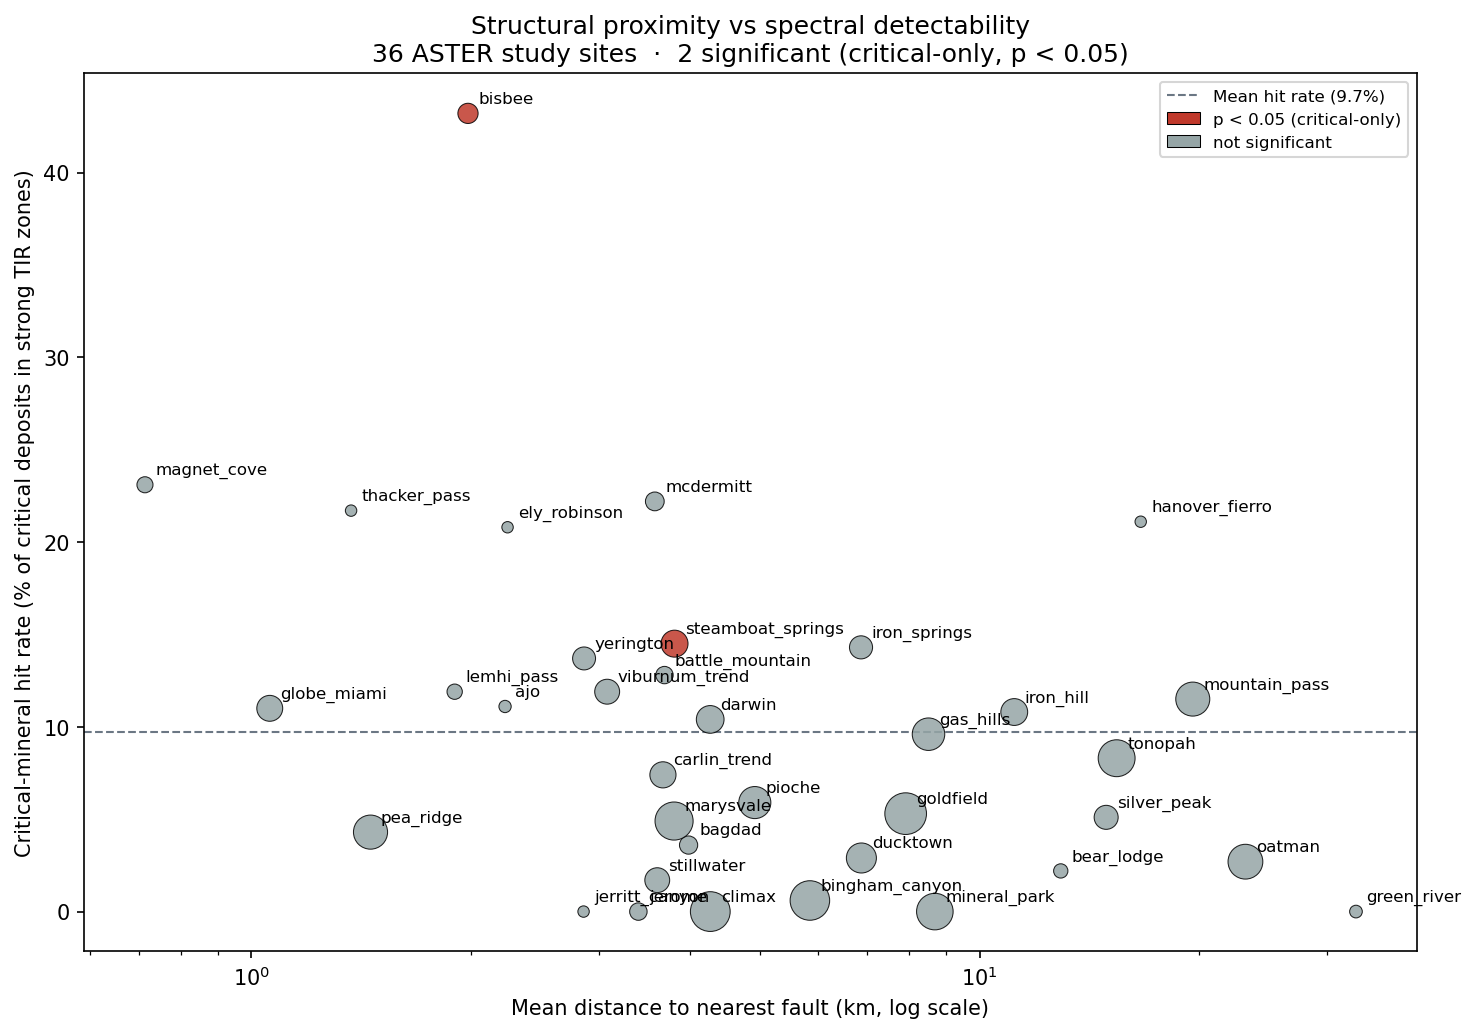
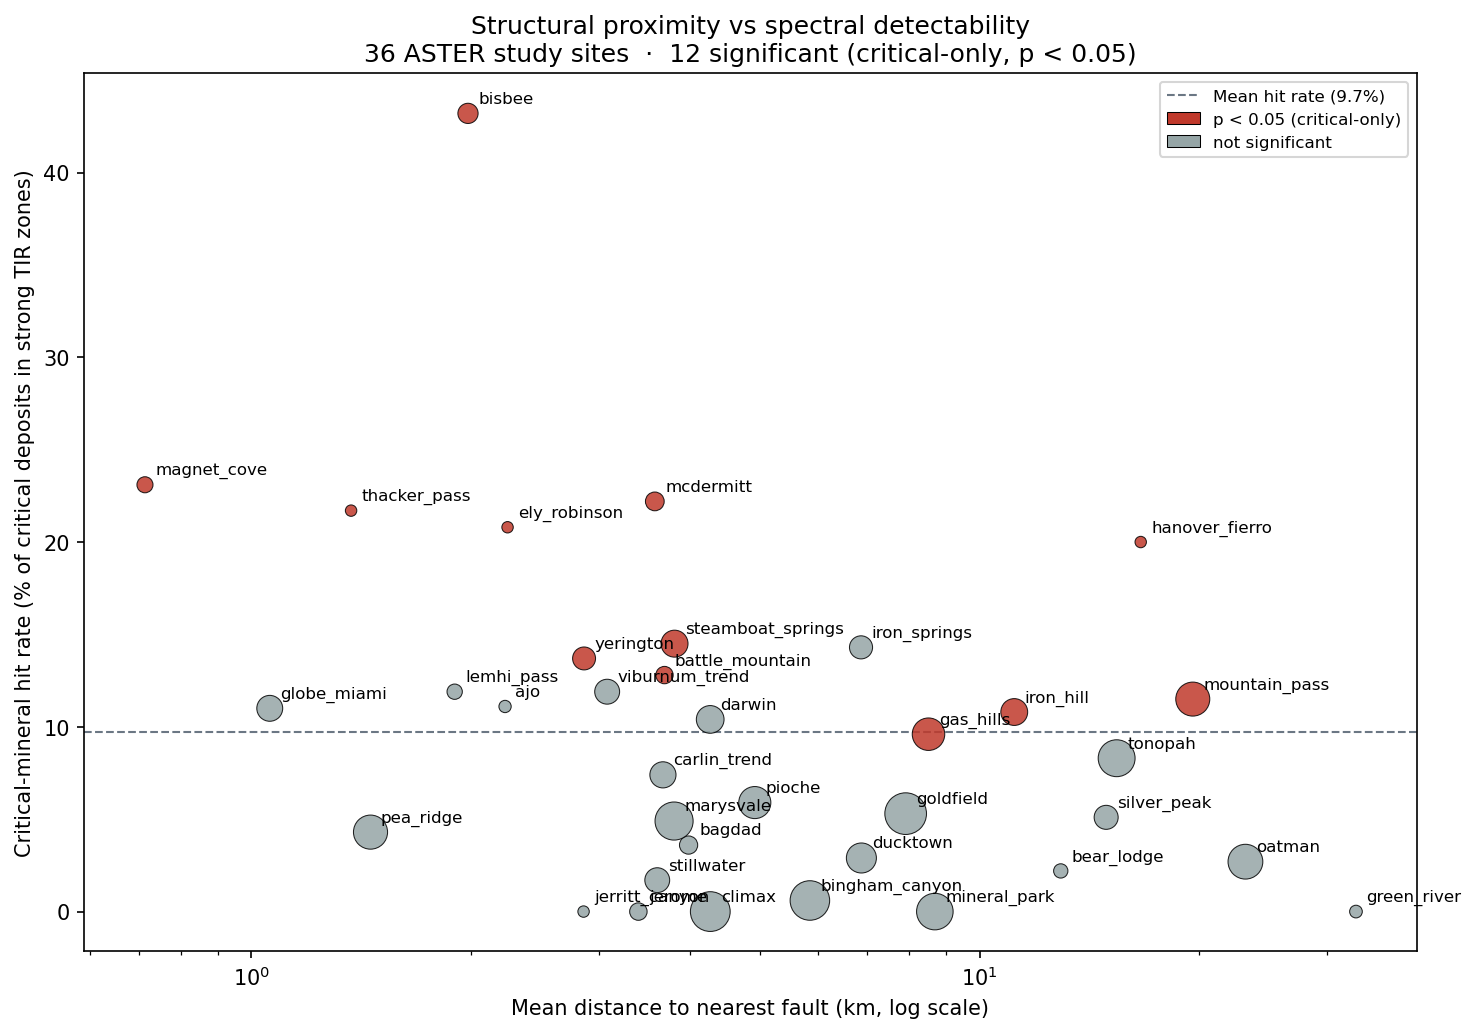
results: embed figures in results.md; fix figure 06 significance (12 critical-only)
Regenerate significance_critical_only.csv from current national_summary.csv
using critical-mineral-only binomial test (null = 9.7%), giving 12/37 significant
vs 15/37 on the all-deposit test. Figure 06 now correctly labels 12 sites red.

Embed figures inline in results.md at relevant sections:
- Fig 05 (national hit rates bar) after significance table
- Fig 06 (structure scatter) in structure proximity section
- Fig 07 (all vs critical paired dots) in non-critical inflation section
- Bisbee site fig 03 as strongest-positive example
- Climax site fig 03 as anti-correlation example
- Ducktown site fig 03 as vegetation-suppression contrast

diff --git a/docs/results.md b/docs/results.md
@@ -6,9 +6,9 @@ ASTER TIR alteration mapping across 37 US critical mineral sites. Full figures: 
 
 ## Site-level hit rates
 
-**15 of 37 sites** show hit rates significantly above chance (binomial test, p < 0.05; null rate = 8.2% pooled across all sites):
+**15 of 37 sites** show hit rates significantly above chance on the all-deposit binomial test (null = 8.2% pooled). **12 of 37** remain significant when restricted to critical-mineral deposits only (figure 06; null = 9.7% critical-only pooled). The three sites that drop under the critical-only test — Iron Springs (Fe skarn; iron is non-critical), Darwin (Pb-Zn skarn), and Green River (aggregate-driven; 0 critical hits) — are discussed in [Non-critical inflation](#non-critical-inflation).
 
-| Site | Hit rate | Binomial p | Deposit type |
+| Site | Hit rate (all deposits) | Binomial p | Deposit type |
 |---|---|---|---|
 | Bisbee, AZ | 39.3% (48/122) | < 0.001 | Skarn / VMS Cu-Zn |
 | Thacker Pass, NV | 34.4% (11/32) | < 0.001 | Lithium brine / sediment |
@@ -23,30 +23,52 @@ ASTER TIR alteration mapping across 37 US critical mineral sites. Full figures: 
 | Ely (Robinson), NV | 21.4% (6/28) | 0.024 | Porphyry Cu-Au |
 | Silver Peak, NV | 12.8% (22/172) | 0.027 | Li brine / epithermal |
 | Lemhi Pass, ID/MT | 15.7% (11/70) | 0.028 | Vein-hosted Th/REE |
-| Green River Basin, WY | 16.7% (8/48) | 0.041 | Sediment-hosted (non-critical dominant)¹ |
+| Green River Basin, WY | 16.7% (8/48) | 0.041 | Sediment-hosted (aggregate-driven)¹ |
 | Globe-Miami, AZ | 12.0% (24/200) | 0.041 | Porphyry Cu / skarn |
 
-¹ Green River significance driven by non-critical (aggregate/industrial) deposits; critical-mineral hits are 0. See [Non-critical inflation](#non-critical-inflation).
+¹ Green River significance driven by non-critical (aggregate/industrial) deposits; 0 critical-mineral hits.
 
-**Near-significant sites** (0.05 ≤ p < 0.15): Viburnum Trend, MO (11.4%, p = 0.085); Battle Mountain, NV (12.2%, p = 0.122).
+![Critical-mineral hit rate by site, sorted and coloured by Earth MRI category. Non-critical deposits excluded. Bisbee leads at 39%, with a clear gradient from skarn/VMS and carbonatite sites at top to Carlin-type and sediment-hosted at bottom.](../figures/05_national_hit_rates.png)
 
-**Anti-correlated sites** (p > 0.95 — deposits actively avoid anomaly zones): Goldfield-Cuprite NV, Ducktown TN, Oatman AZ, Stillwater Complex MT, Bingham Canyon UT, Mineral Park AZ, Climax CO, Jerritt Canyon NV, Elk Creek NE.
+*Figure 05 — Critical-mineral hit rate by site (non-critical excluded). Bar colour = Earth MRI category of in-zone critical deposits. Sites above the dashed reference line (8.2%) have more hits than the pooled null rate.*
 
-Anti-correlations are geologically coherent: Climax is a deep porphyry Mo with no surface alteration expression; Ducktown is a VMS deposit buried under dense Tennessee forest cover; Oatman and Goldfield are epithermal Au systems where the alteration cap is eroded or buried; Stillwater is a layered mafic intrusion where PGM mineralization has no alteration expression at the surface; Bingham Canyon's strongest anomaly zones correspond to Wasatch Front carbonates east of the Oquirrh Mountains, not the mine itself.
+**Near-significant** (0.05 ≤ p < 0.15): Viburnum Trend, MO (11.4%, p = 0.085); Battle Mountain, NV (12.2%, p = 0.122).
+
+**Anti-correlated** (p > 0.95 — deposits actively avoid anomaly zones): Goldfield-Cuprite NV, Ducktown TN, Oatman AZ, Stillwater Complex MT, Bingham Canyon UT, Mineral Park AZ, Climax CO, Jerritt Canyon NV, Elk Creek NE.
+
+Anti-correlations are geologically coherent: Climax is a deep porphyry Mo with no surface alteration expression; Ducktown is a VMS deposit buried under dense Tennessee forest (see figure below); Oatman and Goldfield are epithermal Au systems where the alteration cap is eroded or buried; Stillwater is a layered mafic intrusion where PGM mineralization has no alteration expression at the surface; Bingham Canyon's strongest anomaly zones correspond to Wasatch Front carbonates east of the Oquirrh Mountains, not the mine itself.
+
+**Bisbee — strongest positive (39.3%):**
+
+![Bisbee, AZ deposit overlay. Dense red strong-anomaly zones cluster tightly around the skarn/VMS district in the center of the scene. 48 of 122 MRDS deposits (yellow stars) fall within zones; the TIR data boundary (dashed) cuts the NE corner of the bbox.](../figures/sites/bisbee/03_deposit_overlay.png)
+
+*Figure — Bisbee, AZ. Red zones = strong TIR alteration; yellow stars = MRDS deposits inside zones (n=48); blue circles = deposits outside zones (n=74). The anomaly cluster corresponds spatially to the Warren Mining District skarn and VMS bodies.*
+
+**Climax — anti-correlation example (0.2%, 1/472):**
+
+![Climax, CO deposit overlay. Strong anomaly zones cluster in the upper Rocky Mountain terrain (upper left) while 471 of 472 MRDS deposits cluster in the lower-right valley area — a near-perfect spatial mismatch.](../figures/sites/climax/03_deposit_overlay.png)
+
+*Figure — Climax, CO. The porphyry Mo system produces almost no surface TIR alteration; 471 of 472 deposits fall outside anomaly zones. The zones reflect carbonate-bearing country rock in the surrounding Sawatch Range, not mineralization.*
 
 ---
 
 ## Methodology note: per-granule classification
 
-Results use **per-granule percentile classification** before mosaicking. Percentile thresholds (70th/90th) are applied to each granule's scene extent independently, then classified maps are max-merged across granules. This preserves local contrast — a deposit that ranks in the top 10% within its granule retains that signal in the merged map. Earlier runs using pooled percentiles across the full mosaic extent diluted local anomalies, producing only 3 significant sites. The per-granule approach recovered 15.
+Results use **per-granule percentile classification** before mosaicking. Percentile thresholds (70th/90th) are applied within each granule's scene extent independently, then classified maps are max-merged across granules. This preserves local contrast — a deposit that ranks in the top 10% within its granule retains that signal in the merged map. Earlier runs using pooled percentiles across the full mosaic extent diluted local anomalies, producing only 3 significant sites. The per-granule approach recovered 15 (all-deposit test) / 12 (critical-only test).
 
 ---
 
 ## Non-critical inflation
 
-Non-critical deposits (stone, sand, gravel, aggregate) have a **higher** pooled hit rate (12.6%, 213/1692) than the overall 8.2%. ASTER TIR detects silica and carbonate enrichment — exactly the mineralogy that makes rock commercially useful as aggregate.
+Non-critical deposits (stone, sand, gravel, aggregate) have a **higher** pooled hit rate (12.6%, 213/1,692) than critical minerals. ASTER TIR detects silica and carbonate enrichment — exactly the mineralogy that makes rock commercially useful as aggregate.
 
-**Green River, WY** is the clearest example: 8 of 48 MRDS records within the TIR footprint are hits, but nearly all are non-critical (aggregate, trona, oil shale). The site is binomially significant (p = 0.041) on all-deposits counts, but has zero critical-mineral hits. The significance is entirely driven by aggregate inflation.
+![Paired dot plot: all-deposits hit rate (grey) vs critical-only hit rate (red = significant, blue = not significant) per site. Sites where the grey dot is far right of the coloured dot have aggregate inflation. Green River is the clearest case: all-deposits hits ~17% but critical-only is 0%.](../figures/07_hitrate_comparison.png)
+
+*Figure 07 — All-deposit vs critical-mineral hit rate per site. A long rightward grey tail indicates aggregate inflation. Green River, Silver Peak, and Darwin show the largest gaps. Steamboat Springs is one of the few sites where all-deposit and critical-only rates are nearly equal.*
+
+**Green River, WY** is the clearest example: nearly all MRDS records in the footprint are non-critical (aggregate, trona, oil shale). The site is binomially significant on all-deposit counts (p = 0.041) but has zero critical-mineral hits.
+
+**Iron Springs, UT** is significant on all-deposits (p = 0.012) but Fe skarn is classified non-critical, so it also drops from the critical-only list. The TIR signal is real — the Fe-bearing skarn rocks produce a strong anomaly — but iron does not qualify as a critical mineral.
 
 **Aggregate quarry application:** The non-critical correlation is a real economic signal for aggregate quarry siting. The `earth_mri_category = 'Non-Critical'` rows in each site's CSV are the right lens for that use case.
 
@@ -67,17 +89,19 @@ Non-critical deposits (stone, sand, gravel, aggregate) have a **higher** pooled 
 | REE | 0.0% | 29 | Indirect | See note below |
 | Non-Critical (aggregate) | 12.6% | 1692 | Yes — different application | See above |
 
-**REE category note:** Pooled REE-category hit rate is 0% (0/29), but two carbonatite REE sites are binomially significant (Mountain Pass p = 0.019, Magnet Cove p < 0.001). The contradiction arises because MRDS deposits at these sites are classified primarily as Base Metals or Gold/Silver (associated skarns and veins) rather than REE under the Earth MRI reclassifier. The TIR signal does co-locate with mineralized ground at these sites, but the hits land on the skarn and vein MRDS records, not the REE-coded ones. Lemhi Pass (vein-hosted Th/REE, p = 0.028) adds a third REE-district positive.
+**REE category note:** Pooled REE-category hit rate is 0% (0/29), but two carbonatite REE sites are significant (Mountain Pass p = 0.019, Magnet Cove p < 0.001). The contradiction arises because MRDS deposits at these sites are classified primarily as Base Metals or Gold/Silver (associated skarns and veins) rather than REE under the Earth MRI reclassifier. The TIR signal co-locates with mineralized ground, but the hits land on skarn/vein MRDS records, not the REE-coded ones. Lemhi Pass (vein-hosted Th/REE, p = 0.028) adds a third REE-district positive.
 
-No category reaches national significance individually; signal is site-specific rather than category-wide.
-
-**Mineral system standouts:** Carbonatite, porphyry Cu-Au, and skarn systems have the highest pooled hit rates across sites. Sediment-hosted (Carlin, MVT, roll-front) and placer systems score at or below chance.
+No category reaches national significance individually; signal is site-specific rather than category-wide. Mineral system standouts: carbonatite, porphyry Cu-Au, and skarn systems have the highest pooled hit rates. Sediment-hosted (Carlin, MVT, roll-front) and placer systems score at or below chance.
 
 ---
 
 ## Structure proximity
 
-Structural proximity alone does not predict TIR detectability. The 15 significant sites span a wide range of mean deposit–fault distances and are not concentrated near fault corridors. The signal is more strongly driven by deposit type and surface alteration exposure than by mapped fault proximity.
+Structural proximity alone does not predict TIR detectability. Significant sites span the full range of mean deposit–fault distances on the log scale.
+
+![Scatter plot: mean deposit-to-fault distance (log scale, km) vs critical-mineral hit rate. Red dots = significant (critical-only, p<0.05, n=12). No trend is visible; significant sites are scattered across the full distance range from <1 km (Magnet Cove) to >10 km (Mountain Pass, Hanover-Fierro).](../figures/06_structure_hit_rate.png)
+
+*Figure 06 — Structural proximity vs spectral detectability. Point size = number of MRDS deposits in bbox. Red = significant on critical-only binomial test (p < 0.05). No correlation between fault proximity and hit rate; deposit type and surface alteration exposure are the dominant predictors.*
 
 **Ozark site caveat:** Pea Ridge and Viburnum Trend have structural corridor buffers covering 40–50% of map area, reflecting the density of mapped Missouri Ozark faults rather than real structural control on mineralization. The "% of deposits within 500 m of structure" metric is inflated at these sites.
 
@@ -99,7 +123,13 @@ ASTER TIR granules are ~60 × 60 km swaths at an oblique angle and do not always
 | Gas Hills, WY | ~72% of bbox; diagonal lower-right corner clipped |
 | Pea Ridge, MO | ~86% of bbox; main deposit cluster within covered area |
 
-**Bingham Canyon spatial mismatch:** The dominant TIR anomaly at this site corresponds to Wasatch Front carbonate formations east of the Oquirrh Mountains, not the Bingham Canyon porphyry system. MRDS deposit points cluster in the center-left of the bbox (the mine area), which produces a weaker TIR signal. The anti-correlation reflects geometric displacement between the anomaly and the deposit, not failure of alteration detection.
+**Bingham Canyon spatial mismatch:** The dominant TIR anomaly at this site corresponds to Wasatch Front carbonate formations east of the Oquirrh Mountains, not the Bingham Canyon porphyry system. MRDS deposit points cluster in the center-left of the bbox (the mine area), which produces a weaker TIR signal.
+
+**Ducktown — vegetation anti-correlation:**
+
+![Ducktown, TN deposit overlay. Alteration zones are present but dispersed across the forested Tennessee landscape. The VMS deposit cluster (yellow stars) is partially captured but the surrounding forest cover suppresses the signal relative to arid-terrain sites with the same deposit type.](../figures/sites/ducktown/03_deposit_overlay.png)
+
+*Figure — Ducktown, TN. Same VMS deposit type as Bisbee (significant, 39.3%), but in forested Tennessee. Vegetation cover suppresses the TIR alteration signal; p ≈ 1. This contrast directly demonstrates why the method is primarily applicable to arid/semi-arid terrain.*
 
 ---
 
@@ -109,7 +139,7 @@ ASTER TIR granules are ~60 × 60 km swaths at an oblique angle and do not always
 - **Scene-relative thresholds:** Percentile classification is per-granule; anomaly scores are not comparable across sites.
 - **MRDS uncertainty:** Deposit locations are report-derived and may be offset from true outcrop or mineralized footprint.
 - **Significance null model:** Binomial test assumes uniform deposit distribution within the footprint. Spatial clustering of real deposits makes p-values conservative — actual null distributions are not uniform.
-- **Vegetation cover:** Forest cover suppresses TIR alteration signal. Ducktown (VMS, Tennessee) anti-correlates where Jerome and Bisbee (same deposit type, arid Arizona) are among the strongest positives. The method is primarily applicable to arid/semi-arid terrain.
+- **Vegetation cover:** Forest cover suppresses TIR alteration signal. Ducktown (VMS, Tennessee) anti-correlates where Jerome and Bisbee (same deposit type, arid Arizona) are strong positives. The method is primarily applicable to arid/semi-arid terrain.
 - **Anti-correlations are informative:** p ≈ 1 means the method is physically incapable of detecting the dominant deposit type at that site under current surface conditions, not that the zones are wrong.
 
 ---
@@ -119,7 +149,7 @@ ASTER TIR granules are ~60 × 60 km swaths at an oblique angle and do not always
 | Figure | Content |
 |---|---|
 | `figures/05_national_hit_rates.png` | Stacked bar by Earth MRI category, critical minerals only; sites sorted by hit rate |
-| `figures/06_structure_hit_rate.png` | Log-scale scatter: mean fault distance vs hit rate; red = significant |
+| `figures/06_structure_hit_rate.png` | Log-scale scatter: mean fault distance vs critical-only hit rate; red = significant (n=12) |
 | `figures/07_hitrate_comparison.png` | Paired dot plot: all-deposits vs critical-only hit rate per site; exposes aggregate inflation |
 | `figures/sites/{id}/00_composite_rgb.png` | False-color TIR composite |
 | `figures/sites/{id}/01_tir_band_ratios.png` | Three band ratio maps |
